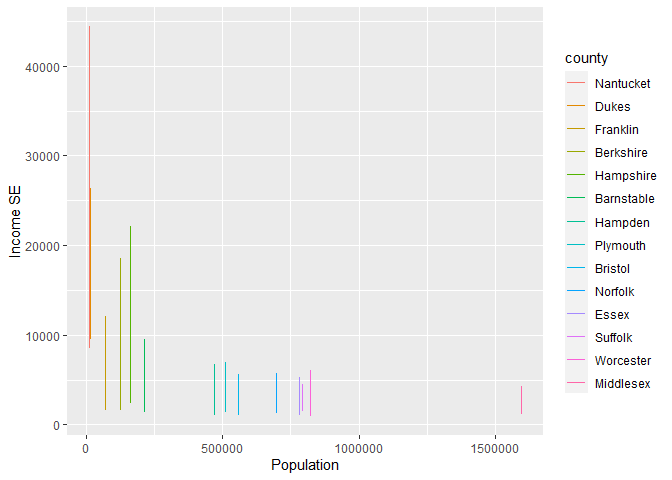
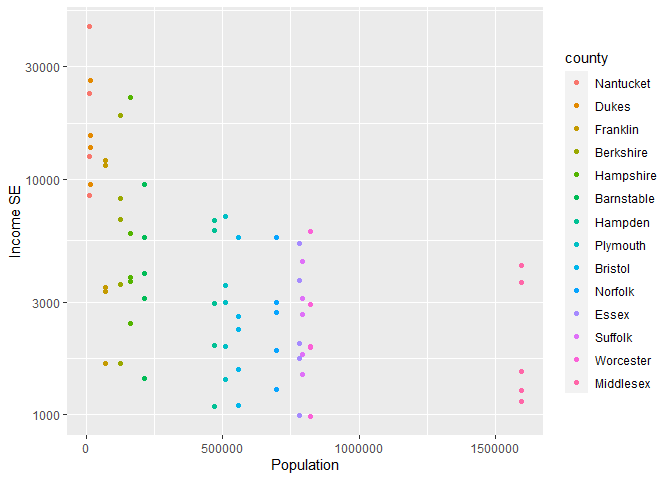
challenge 9 update

diff --git a/challenges/c09-income-assignment.md b/challenges/c09-income-assignment.md
@@ -528,7 +528,7 @@ df_data %>%
     position = position_dodge(width = wid)
   ) +
   geom_point(position = position_dodge(width = wid)) +
-
+  
   coord_flip() +
   labs(
     x = "County",
@@ -551,9 +551,8 @@ df_data %>%
   - …
 - Can you confidently distinguish between household incomes in Suffolk
   county? Why or why not?
-  - No, they are quite close together, it is very hard to distinguish
-    between the blue and green lines when they overlap, and the scale
-    markers on the x axis are too far apart to be useful in this case.
+  - No, the confidence intervals for each of the family sizes overlap so
+    there is no way to confidently distinguish between them.
 - Which counties have the widest confidence intervals?
   - Nantucket and Dukes overall and for 5 person families, followed by
     Hampshire and Berkshire for six person families.
@@ -575,15 +574,17 @@ df_data %>%
   ) %>%
 
   ggplot(aes(population_estimate, income_SE, color = county)) +
-  geom_line() +
+  geom_point() +
 
+  scale_y_log10() +
+  #scale_x_log10() +
   labs(
     x = "Population",
     y = "Income SE"
   )
 ```
 
-    ## Warning: Removed 2 rows containing missing values (`geom_line()`).
+    ## Warning: Removed 2 rows containing missing values (`geom_point()`).
 
 ![](c09-income-assignment_files/figure-gfm/q7-task-1.png)<!-- -->
 
@@ -593,8 +594,8 @@ df_data %>%
   this trend exist?
   - Overall lower populations have larger and more variable SE in income
     estimates. This could be due to increased uncertainty with small
-    sample sizes and or with some smaller counties having more rich
-    people.
+    sample sizes and or with some smaller counties, such as Nantucket,
+    having much higher levels of income inequality.
 - What does this *overall* trend tell you about the relative ease of
   studying small vs large counties?
   - in general it is easier to study large counties because you have a
